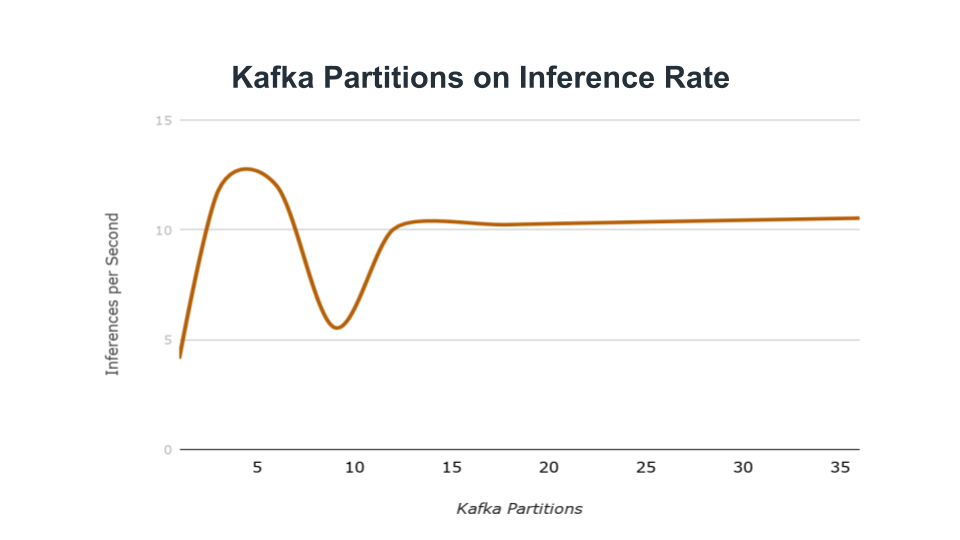
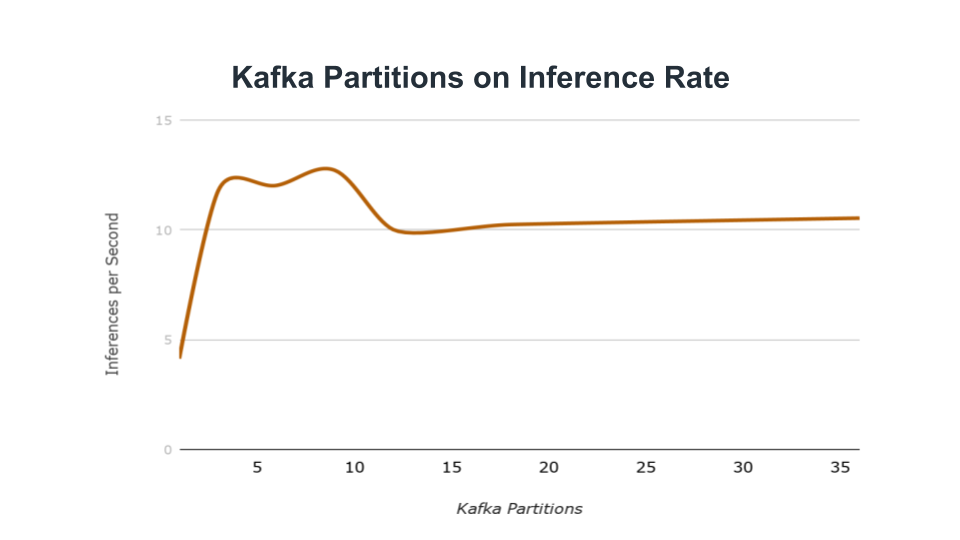
Readme explanation

diff --git a/README.md b/README.md
@@ -88,14 +88,14 @@ There were two main challenges to this project:
 
 * Spark Parameter Tuning
 
-  1. Experimented with different repartition() values. RDD partition size of 36 was found to be optimal.
+  1. Experimented with different repartition() values. Recommended RDD partition size should be 2 to 3x the number of cores in the cluster. Cluster had 3 workers with 2 cores per worker for a total core count of 6. Actual optimal partition size of 36 was found to yield the highest inference rate.
     <img src="https://raw.githubusercontent.com/VincentYing/fashion-pipeline/master/images/repartition.png" width="480" height="270">
 
   2. Enabled dynamic allocation for Executor creation.
 
     The two adjustments above resulted in a 2x improvement in inference rate from 0.5 to 1 inference per second.
 
-  3. Adjusted the number of Kafka partitions to match the number of SPARK_WORKER_CORES (6). This produced a 3x speedup.
+  3. Adjusted the number of Kafka partitions to be slightly above the number of SPARK_WORKER_CORES (9 vs 6 respectively). This produced a 3x speedup.
     <img src="https://raw.githubusercontent.com/VincentYing/fashion-pipeline/master/images/kafka_partitions.png" width="480" height="270">
 
 * Image Batching for TF ingestion
